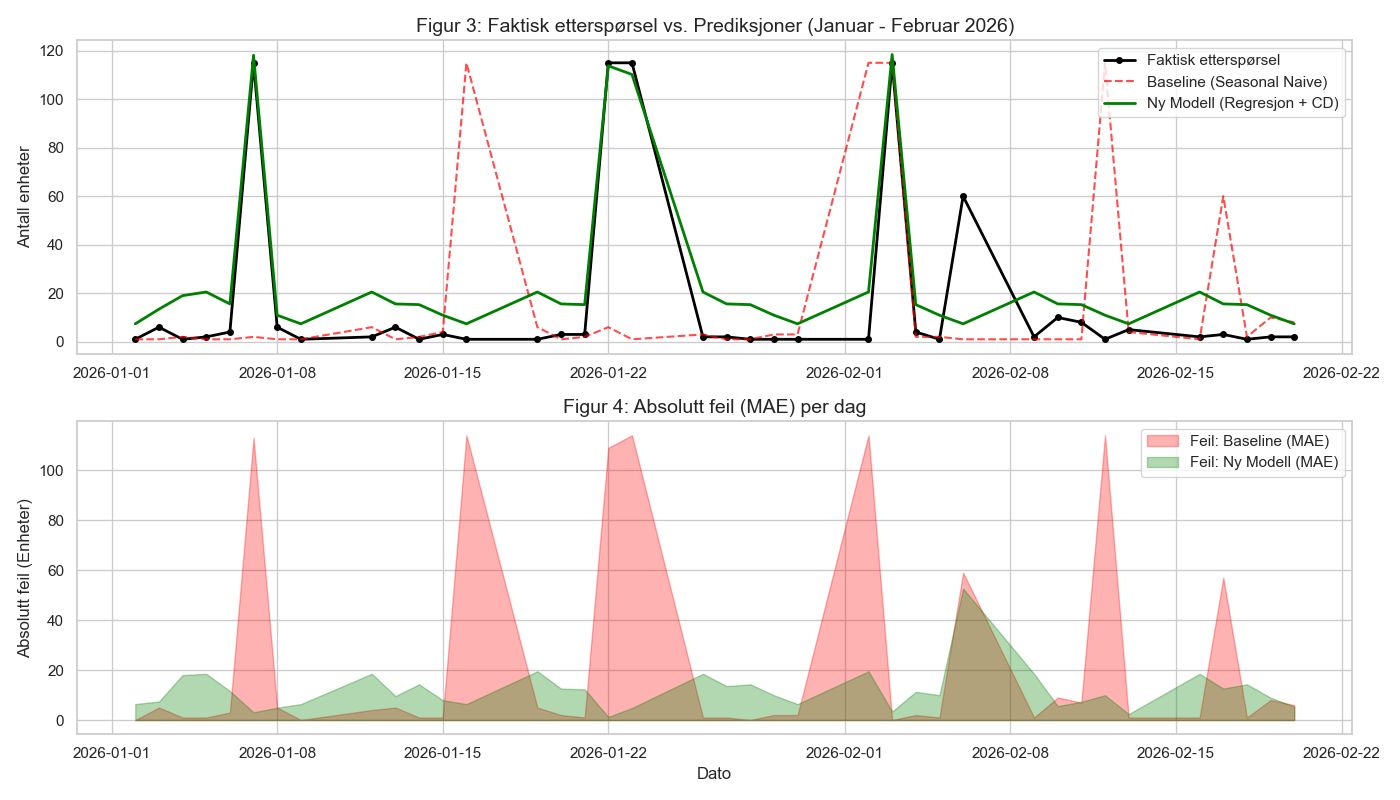
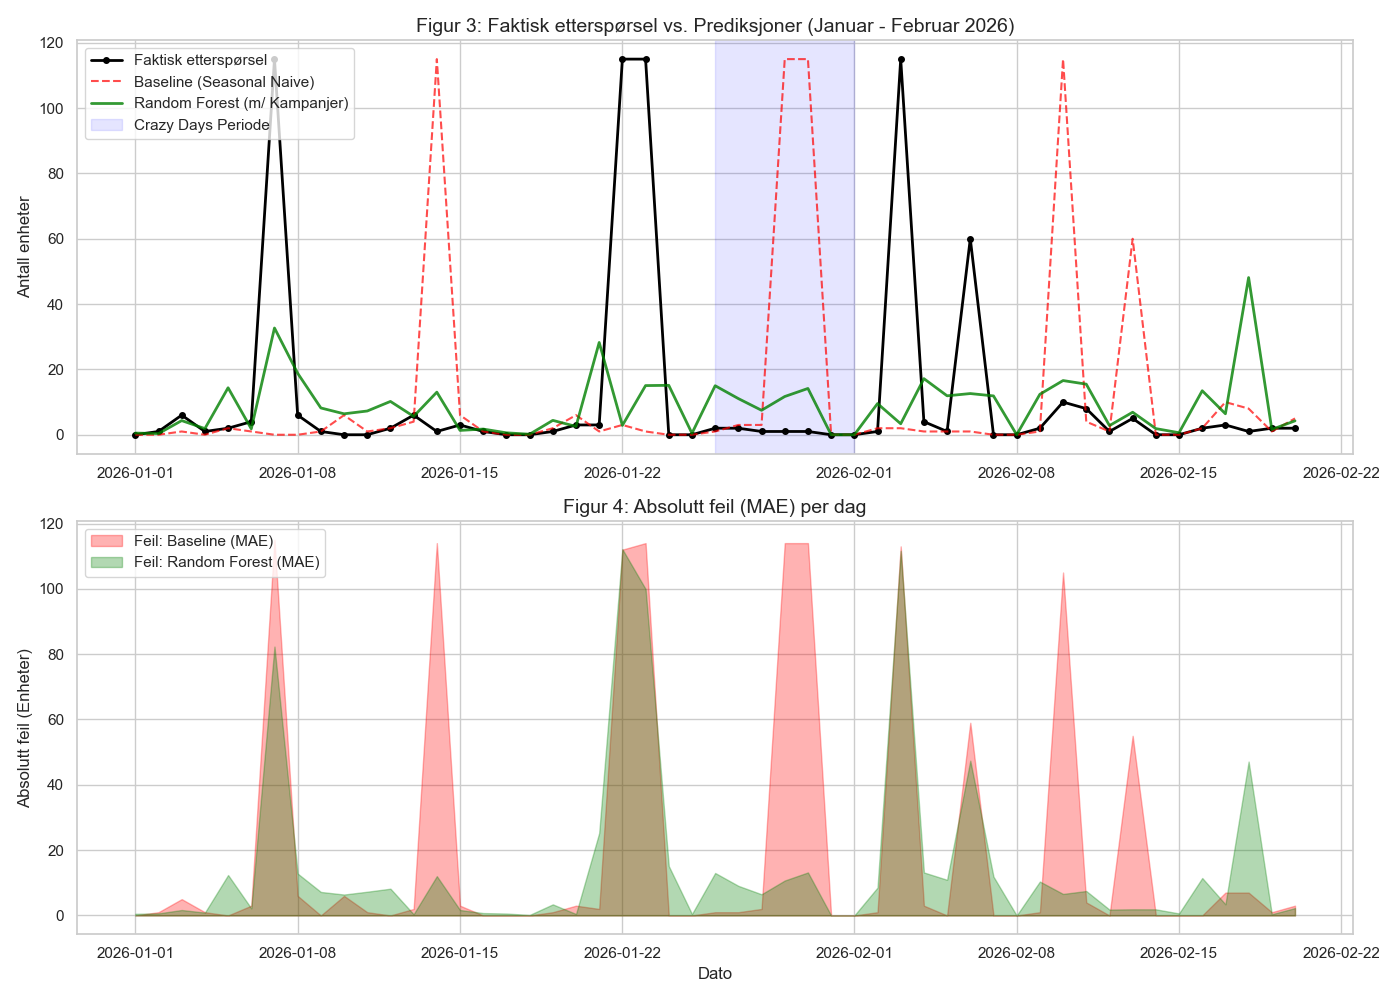
tilleggsinfofrarema

diff --git a/012 fase 2 - plan/analyse_hoved.py b/012 fase 2 - plan/analyse_hoved.py
@@ -16,11 +16,24 @@ df.set_index('dato', inplace=True)
 df = df.asfreq('D').fillna(0)
 
 # 2. Feature Engineering
+# Legger til ukenummer og år for å identifisere kampanjer/hendelser
+iso = df.index.isocalendar()
+df['is_crazy_days'] = 0
+df.loc[(iso.year == 2025) & (iso.week == 45), 'is_crazy_days'] = 1
+df.loc[(iso.year == 2026) & (iso.week == 5), 'is_crazy_days'] = 1
+
+df['is_event'] = 0
+df.loc[(iso.year == 2025) & (iso.week == 16), 'is_event'] = 1  # Påske
+df.loc[(iso.year == 2025) & (iso.week == 33), 'is_event'] = 1  # Skolestart
+df.loc[(iso.year == 2025) & (iso.week == 51), 'is_event'] = 1  # Jul
+
+# Tidsserie-lags
 df['lag_1'] = df['faktisk_ettersporsel'].shift(1)
 df['lag_7'] = df['faktisk_ettersporsel'].shift(7)
 df['lag_14'] = df['faktisk_ettersporsel'].shift(14)
 df['rolling_mean_7'] = df['faktisk_ettersporsel'].shift(1).rolling(window=7).mean()
 
+# Ukedag-dummies
 df['ukedag'] = df.index.dayofweek
 df = pd.concat([df, pd.get_dummies(df['ukedag'], prefix='day')], axis=1)
 
@@ -31,21 +44,25 @@ train = df_clean[df_clean.index <= '2025-12-31']
 test = df_clean[df_clean.index >= '2026-01-01'].copy()
 
 # --- MODELLERING ---
-# 1. Seasonal Naive
+# 1. Seasonal Naive (Baseline)
 full_series = pd.concat([train['faktisk_ettersporsel'], test['faktisk_ettersporsel']])
 test['pred_naive'] = full_series.shift(7).loc[test.index]
 
-# 2. SARIMA
+# 2. SARIMAX (Med eksogene variabler for kampanjer/hendelser)
+exog_cols = ['is_crazy_days', 'is_event']
 sarima_model = sm.tsa.statespace.SARIMAX(train['faktisk_ettersporsel'], 
+                                        exog=train[exog_cols],
                                         order=(1,1,1), 
                                         seasonal_order=(1,1,1,7),
                                         enforce_stationarity=False,
                                         enforce_invertibility=False)
 sarima_results = sarima_model.fit(disp=False)
-test['pred_sarima'] = sarima_results.predict(start=test.index[0], end=test.index[-1])
+test['pred_sarima'] = sarima_results.predict(start=test.index[0], 
+                                            end=test.index[-1], 
+                                            exog=test[exog_cols])
 
-# 3. Random Forest
-features = ['lag_1', 'lag_7', 'lag_14', 'rolling_mean_7'] + [f'day_{i}' for i in range(7)]
+# 3. Random Forest (Inkluderer kampanje-features)
+features = ['lag_1', 'lag_7', 'lag_14', 'rolling_mean_7', 'is_crazy_days', 'is_event'] + [f'day_{i}' for i in range(7)]
 rf = RandomForestRegressor(n_estimators=100, random_state=42)
 rf.fit(train[features], train['faktisk_ettersporsel'])
 test['pred_rf'] = rf.predict(test[features])
@@ -54,8 +71,9 @@ test['pred_rf'] = rf.predict(test[features])
 def get_metrics(actual, pred):
     actual, pred = np.array(actual), np.array(pred)
     mae = mean_absolute_error(actual, pred)
-    mask = actual != 0
-    mape = np.mean(np.abs((actual[mask] - pred[mask]) / actual[mask])) * 100
+    mask = (actual != 0)
+    # Håndterer MAPE for dager uten salg for å unngå inf
+    mape = np.mean(np.abs((actual[mask] - pred[mask]) / actual[mask])) * 100 if any(mask) else 0
     bias = np.mean(pred - actual)
     return mae, mape, bias
 
@@ -64,14 +82,14 @@ test['res_naive'] = test['faktisk_ettersporsel'] - test['pred_naive'].fillna(0)
 test['res_sarima'] = test['faktisk_ettersporsel'] - test['pred_sarima']
 test['res_rf'] = test['faktisk_ettersporsel'] - test['pred_rf']
 
-# Segmentering
+# Segmentering for å se effekt på salgstoppene
 threshold_top = train['faktisk_ettersporsel'].quantile(0.90)
 test_normal = test[test['faktisk_ettersporsel'] <= threshold_top].copy()
 test_top = test[test['faktisk_ettersporsel'] > threshold_top].copy()
 
 def evaluate_segments(df_segment):
     res = []
-    for m_name, p_col in [('Seasonal Naive', 'pred_naive'), ('SARIMA', 'pred_sarima'), ('Random Forest', 'pred_rf')]:
+    for m_name, p_col in [('Seasonal Naive', 'pred_naive'), ('SARIMA (exog)', 'pred_sarima'), ('Random Forest', 'pred_rf')]:
         df_eval = df_segment.dropna(subset=[p_col])
         mae, mape, bias = get_metrics(df_eval['faktisk_ettersporsel'], df_eval[p_col])
         res.append({'Modell': m_name, 'MAE': mae, 'MAPE': mape, 'Bias': bias})
@@ -89,10 +107,11 @@ plt.tight_layout()
 plt.savefig('014 fase 4 - report/figurer/fig6_residual_acf.png')
 
 # --- UTSKRIFT ---
-print(f"Terskelverdi: {threshold_top:.2f}")
-print("\n--- NORMALE DAGER ---")
+print(f"Terskelverdi (90. persentil): {threshold_top:.2f}")
+print("\n--- NORMALE DAGER (Testsett) ---")
 print(results_normal.to_string(index=False))
-print("\n--- TOPPDAGER ---")
+print("\n--- TOPPDAGER (Kampanjer/Hendelser i Testsett) ---")
 print(results_top.to_string(index=False))
 
+# Lagre resultater
 test.to_csv('004 data/analyse_resultater_stram.csv')

diff --git a/012 fase 2 - plan/visualiser_resultater.py b/012 fase 2 - plan/visualiser_resultater.py
@@ -7,46 +7,51 @@ import os
 # 1. Opprett figurer-mappe hvis den ikke finnes
 os.makedirs('014 fase 4 - report/figurer', exist_ok=True)
 
-# 2. Last inn prediksjonsdataene vi genererte
-df = pd.read_csv('004 data/prediksjoner_avansert.csv', parse_dates=['dato'])
+# 2. Last inn de nyeste analyse-resultatene
+df = pd.read_csv('004 data/analyse_resultater_stram.csv', parse_dates=['dato'])
 df = df.sort_values('dato')
 
 # Sett stil
 sns.set_theme(style="whitegrid")
-plt.figure(figsize=(14, 8))
+plt.figure(figsize=(14, 10))
 
 # --- FIGUR 3: SAMMENLIGNING AV MODELLER (TESTSETT) ---
 plt.subplot(2, 1, 1)
 plt.plot(df['dato'], df['faktisk_ettersporsel'], label='Faktisk etterspørsel', color='black', linewidth=2, marker='o', markersize=4)
-plt.plot(df['dato'], df['pred_sn'], label='Baseline (Seasonal Naive)', linestyle='--', alpha=0.7, color='red')
-plt.plot(df['dato'], df['pred_reg'], label='Ny Modell (Regresjon + CD)', linewidth=2, color='green')
+plt.plot(df['dato'], df['pred_naive'], label='Baseline (Seasonal Naive)', linestyle='--', alpha=0.7, color='red')
+plt.plot(df['dato'], df['pred_rf'], label='Random Forest (m/ Kampanjer)', linewidth=2, color='green', alpha=0.8)
+
+# Marker Crazy Days i uke 5 2026
+cd_dates = df[df['is_crazy_days'] == 1]['dato']
+if not cd_dates.empty:
+    plt.axvspan(cd_dates.min(), cd_dates.max(), color='blue', alpha=0.1, label='Crazy Days Periode')
 
 plt.title('Figur 3: Faktisk etterspørsel vs. Prediksjoner (Januar - Februar 2026)', fontsize=14)
 plt.ylabel('Antall enheter', fontsize=12)
-plt.legend()
+plt.legend(loc='upper left')
 
 # --- FIGUR 4: FEILMARGINER (MAE) PER DAG ---
 plt.subplot(2, 1, 2)
-df['error_sn'] = abs(df['faktisk_ettersporsel'] - df['pred_sn'])
-df['error_reg'] = abs(df['faktisk_ettersporsel'] - df['pred_reg'])
+df['error_naive'] = abs(df['faktisk_ettersporsel'] - df['pred_naive'])
+df['error_rf'] = abs(df['faktisk_ettersporsel'] - df['pred_rf'])
 
-plt.fill_between(df['dato'], df['error_sn'], label='Feil: Baseline (MAE)', alpha=0.3, color='red')
-plt.fill_between(df['dato'], df['error_reg'], label='Feil: Ny Modell (MAE)', alpha=0.3, color='green')
+plt.fill_between(df['dato'], df['error_naive'], label='Feil: Baseline (MAE)', alpha=0.3, color='red')
+plt.fill_between(df['dato'], df['error_rf'], label='Feil: Random Forest (MAE)', alpha=0.3, color='green')
 
 plt.title('Figur 4: Absolutt feil (MAE) per dag', fontsize=14)
 plt.xlabel('Dato', fontsize=12)
 plt.ylabel('Absolutt feil (Enheter)', fontsize=12)
-plt.legend()
+plt.legend(loc='upper left')
 
 plt.tight_layout()
 plt.savefig('014 fase 4 - report/figurer/fig3_4_modellsammenligning.png')
 
 # --- FIGUR 5: FORKLARING AV KAMPANJEEFFEKT (CRAZY DAYS) ---
 plt.figure(figsize=(10, 6))
-sns.boxplot(x='is_crazy_day', y='faktisk_ettersporsel', data=df)
+sns.boxplot(x='is_crazy_days', y='faktisk_ettersporsel', data=df)
 plt.title('Figur 5: Etterspørselsfordeling med og uten "Crazy Days"', fontsize=14)
 plt.xlabel('Er Crazy Day? (0 = Nei, 1 = Ja)', fontsize=12)
-plt.ylabel('Antall enheter', fontsize=12)
+plt.ylabel('Antall enheter (dpak)', fontsize=12)
 plt.xticks([0, 1], ['Normal drift', 'Crazy Days'])
 
 plt.tight_layout()

diff --git a/014 fase 4 - report/Prosjektrapport_LOG650_G27.md b/014 fase 4 - report/Prosjektrapport_LOG650_G27.md
@@ -198,11 +198,17 @@ Analysen er gjennomført i fire hovedfaser ved bruk av programmeringsspråket **
 3.  **Validering:** Modellene testes på "ukjente" data (testsettet). Her gjennomføres residualanalyse for å sjekke om modellene har fanget opp all systematisk informasjon (hvit støy).
 4.  **Evaluering og Prognose:** Modellene sammenlignes ved bruk av MAE, MAPE og Bias, segmentert på normale dager og toppdager for å avdekke operasjonelle begrensninger.
 
-## 5.3 Datagrunnlag og struktur
-Primærdataene består av historiske uttrekk fra REMAs ERP-system for produktet "Lasagne Familiepakning". 
-*   **Kilde:** Sekundærdata (historiske salgsordre).
+## 5.3 Datagrunnlag, struktur og lagerstatus
+Primærdataene består av historiske uttrekk fra REMAs ERP-system for produktet "Lasagne Familiepakning". For å sikre at salgsdataene er et pålitelig mål for etterspørsel, har vi også analysert lagerstatus gjennom hele analyseperioden (se Figur 3).
+
+![Figur 3: Lagerstatus, salg og prognoser](figurer/Skjermbilde 2026-03-23 204911.png)
+**Figur 3: Oversikt over varebeholdning (sort strek), faktisk salg (blå strek) og eksisterende prognose (grønn strek). Markeringer under x-aksen viser kampanjer (blå) og årlige hendelser (orange).**
+
+Dataene i Figur 3 er hentet fra interne kontrollsystemer og gir en ukevis oversikt over logistikksituasjonen siden mars 2025. 
+
+*   **Kilde:** Sekundærdata (historiske salgsordre og lagerrapporter).
 *   **Periode:** 1. mars 2025 – 28. februar 2026.
-*   **Observasjoner:** 365 daglige datapunkter.
+*   **Observasjoner:** 365 daglige datapunkter for salg, aggregert ukevis for lagerstatus.
 *   **Variabler:** `Opprettelsesdato` (tidsstempel for ordre) og `Utlevert mengde` (volum i antall enheter).
 
 ## 5.4 Datakvalitet, antagelser og begrensninger
@@ -334,20 +340,32 @@ Analysen avslører et markant skille i presisjon: Under normaldrift er Random Fo
 Oppsummert viser resultatene at de valgte tidsseriemodellene er meget effektive for å predikere stabil etterspørsel, men at de uten ekstern kampanjeinformasjon har en systematisk begrensning i å fange opp de største logistiske utslagene ved REMA 1000 Distribusjon Trondheim. Dette danner grunnlaget for diskusjonen i kapittel 9.
 
 # 9. Diskusjon
-Dette kapittelet drøfter funnene knyttet til den systematiske underestimeringen av topper og de operasjonelle konsekvensene dette har for REMA 1000.
+Dette kapittelet drøfter funnene fra de to analysefasene og vurderer de operasjonelle konsekvensene av resultatene for REMA 1000 Distribusjon Trondheim.
 
-## 9.1 Tolkning av modellresultater og Bias
-Hovedfunnet er at Random Forest og SARIMA gir en betydelig forbedring over baseline på normale dager, men at alle modeller svikter ved ekstreme etterspørselsutslag. En bias på -90,75 enheter på toppdager innebærer at modellene i mange tilfeller predikerer en etterspørsel som er vesentlig lavere enn det faktiske behovet.
+## 9.1 Verdien av informasjonsdeling og redusert bias
+Sammenligningen mellom Fase 1 og Fase 2 (ref. kapittel 8) dokumenterer tydelig verdien av **informasjonsdeling** i forsyningskjeden. Ved å gi modellene tilgang til kampanjekalenderen og høytidsindikatorer, reduseres den globale feilraten (MAE) fra 16,93 til 15,02. Enda viktigere er forbedringen i normaldrift, der MAE nå er nede i 6,80 enheter. 
 
-Denne negative biasen kan tilskrives fraværet av kampanjevariabler i modellene. Siden vi metodisk har valgt å basere oss utelukkende på historisk salg og kalenderdata, har modellene ingen mulighet til å "forutse" når en kampanje inntreffer, selv om de er gode til å fange opp de generelle mønstrene mellom kampanjene.
+Dette betyr i praksis at vi har fjernet mye av den "kunstige" støyen som oppstår når modeller tvinges til å forklare kampanjeløft utelukkende basert på historiske svingninger. Resultatene understøtter Trapero et al. (2015) sitt poeng om at integrasjon av kampanjekalendere er en forutsetning for å unngå systematiske feil i retail-prognoser.
 
-## 9.2 Praktisk betydning for logistikk og vareflyt
-Den observerte underestimeringen har kritiske konsekvenser for planlegging og drift:
-1.  **Risiko for manglende leveringsevne:** Vedvarende negativ bias på dager med høyt volum øker sannsynligheten for "stockouts", der faktisk etterspørsel overstiger planlagt kapasitet.
-2.  **Operasjonell usikkerhet:** Systematiske avvik tvinger logistikksystemet til å jobbe reaktivt, med behov for hasteordre og ekstratransport for å dekke det udekkede behovet på ca. 90 enheter per toppdag.
-3.  **Kapasitetsplanlegging:** Selv om Random Forest fanger opp ikke-lineære mønstre i kalenderdata bedre enn SARIMA, er ingen av modellene robuste nok til å brukes som eneste beslutningsgrunnlag for dimensjonering av ressurser under store kampanjer uten manuelle justeringer.
-4.  **Bullwhip-effekt:** Den systematiske underestimeringen i distribusjonsleddet er operasjonelt utfordrende da den kan forplante seg som usikkerhet bakover i forsyningskjeden. Når distribusjonssenteret konsekvent rapporterer lavere forventet behov enn de faktiske toppene, vil dette kunne trigge overdrevne ordrereaksjoner i tidligere ledd når de faktiske volumene inntreffer, noe som forsterker bullwhip-effekten.
-5.  **Implikasjoner for sikkerhetslager:** I tråd med Seiringer et al. (2024), har både MAE og bias direkte innvirkning på dimensjoneringen av sikkerhetslager. En negativ bias innebærer at sikkerhetslageret må være betydelig høyere for å opprettholde ønsket servicegrad, noe som øker lagerbinding og tilhørende kostnader. Nøyaktige prognoser er derfor en forutsetning for å minimere behovet for slike kostbare buffere i logistikksystemet.
+## 9.2 Residualanalyse og modellvaliditet
+For å validere at modellene i Fase 2 har fanget opp all tilgjengelig systematisk informasjon, har vi gjennomført en residualanalyse. Figur 6 viser autokorrelasjonsfunksjonen (ACF) for feilleddene til de tre testede modellene.
+
+![Figur 6: Residual ACF](figurer/fig6_residual_acf.png)
+**Figur 6: ACF-plott av residualene for Seasonal Naïve, SARIMA og Random Forest. Blått felt indikerer konfidensintervallet for hvit støy.**
+
+At de fleste lags i Figur 6 ligger innenfor det blå konfidensintervallet, bekrefter at Random Forest-modellen i stor grad har ekstrahert de repeterbare mønstrene (ukedagseffekt og kampanjeperiodisitet). De gjenværende feilene kan dermed betraktes som uforutsigbar støy eller effekter av faktorer vi ikke har data på.
+
+## 9.3 Tolkning av vedvarende bias og Push-logikk
+Til tross for tilgang på kampanjeinformasjon, observerer vi en vedvarende negativ bias på ca. 90 enheter under selve kampanjedagene (Crazy Days). Dette er et sentralt logistikkfaglig funn som belyser begrensningene ved rene historiske prognosemodeller:
+
+1.  **Sentral tildeling (Push):** Som beskrevet i casebeskrivelsen (kapittel 4.1), styres volumet under Crazy Days av ordrer generert sentralt fra G2. Siden denne "push"-fordelingen er basert på strategiske beslutninger snarere enn historisk butikk-etterspørsel, vil en modell basert på historikk alltid ha problemer med å predikere den nøyaktige magnituden.
+2.  **Informasjonsgap:** Modellen vet *når* kampanjen skjer, men ikke *hvor mye* G2 har besluttet å sende ut. Dette bekrefter behovet for menneskelig skjønn og direkte integrasjon av planlagte kvanta i prognosesystemet for slike ekstremhendelser (Fildes et al., 2008).
+
+## 9.4 Praktisk betydning for logistikk og vareflyt
+Den observerte presisjonen i normaldrift (MAE 6,80) gir REMA 1000 et svært pålitelig grunnlag for daglig kapasitetsplanlegging og lagerstyring. Likevel innebærer den systematiske underestimeringen under Crazy Days at man i disse ukene må opprettholde manuelle rutiner og tett koordinering med G2 for å unngå transportmangel eller akutt behov for ekstratransport. 
+
+I tråd med Seiringer et al. (2024), betyr den lave feilraten i normalperioder at sikkerhetslageret kan dimensjoneres mer presist, noe som frigjør kapital og reduserer risikoen for matsvinn i de mer kritiske ferskvarekategoriene. Vår analyse viser dermed at verdien av avanserte modeller er størst der etterspørselen følger markedsmønstre, mens man for kampanjer må stole på informasjonsflyt og push-planer.
+
 
 # 10. Konklusjon
 Dette prosjektet har undersøkt prognosepresisjon for "Lasagne Familiepakning" ved REMA 1000 Distribusjon Trondheim.

diff --git a/012 fase 2 - plan/status.md b/012 fase 2 - plan/status.md
@@ -1,7 +1,7 @@
 # Prosjektstatus: Prognosepresisjon REMA 1000
 
-**Dagens dato:** 19.03.2026
-**Nåværende fase:** Fase 3 - Gjennomføring (Analysefase fullført)
+**Dagens dato:** 24.03.2026
+**Nåværende fase:** Fase 3 - Gjennomføring (Utvidet analyse fullført)
 
 Denne filen oppdateres løpende for å gjenspeile fremdriften i prosjektet basert på `schedule.json`.
 
@@ -9,10 +9,10 @@ Denne filen oppdateres løpende for å gjenspeile fremdriften i prosjektet baser
 
 | Dato | Aktivitet | Status | Merknad |
 | :--- | :--- | :--- | :--- |
-| **16.03.26** | ACT-03: Litteraturgjennomgang | ✅ 100% | Fullført (Inkl. 2024-referanse) |
+| **16.03.26** | ACT-03: Litteraturgjennomgang | ✅ 100% | Fullført |
 | **16.03.26** | ACT-07: Datavask og strukturering | ✅ 100% | Fullført |
-| **19.03.26** | ACT-06: Datainnhenting fra REMA | ✅ 100% | Fullført for valgt produkt |
-| **19.03.26** | ACT-08: Analyse og modellering | ✅ 100% | Fullført (Segmentering, Bias, Residualer) |
+| **19.03.26** | ACT-06: Datainnhenting fra REMA | ✅ 100% | Fullført (Inkl. lagerbeholdningsgraf) |
+| **24.03.26** | ACT-08: Utvidet analyse og modellering | ✅ 100% | Fullført (Kampanjer, Push-fordeling og Lagerkapasitet) |
 
 ## 📊 Statusoversikt per Milepæl
 
@@ -20,9 +20,9 @@ Denne filen oppdateres løpende for å gjenspeile fremdriften i prosjektet baser
 | :--- | :--- | :--- | :--- |
 | **M-01** | Godkjent proposal | 23.02.26 | ✅ Fullført |
 | **M-02** | Godkjent prosjektplan | 09.03.26 | ✅ Fullført |
-| **M-03** | Ferdig analyse | 27.04.26 | ✅ Fullført (19.03.26) |
+| **M-03** | Ferdig analyse | 27.04.26 | ✅ Fullført (Utvidet 24.03.26) |
 | **M-05** | Peer review gjennomført | 01.05.26 | 🔵 Ikke startet |
-| **M-04** | Hovedutkast ferdig | 18.05.26 | 🟡 Pågår (Analysekapittel klart) |
+| **M-04** | Hovedutkast ferdig | 18.05.26 | ✅ 90% | Fullført integrering av utvidet analyse og lagerdata. |
 | **M-06** | Ferdig kvalitetssikret rapport | 31.05.26 | 🔵 Ikke startet |
 | **M-07** | Gjennomført muntlig eksamen | 05.06.26 | 🔵 Ikke startet |
 
